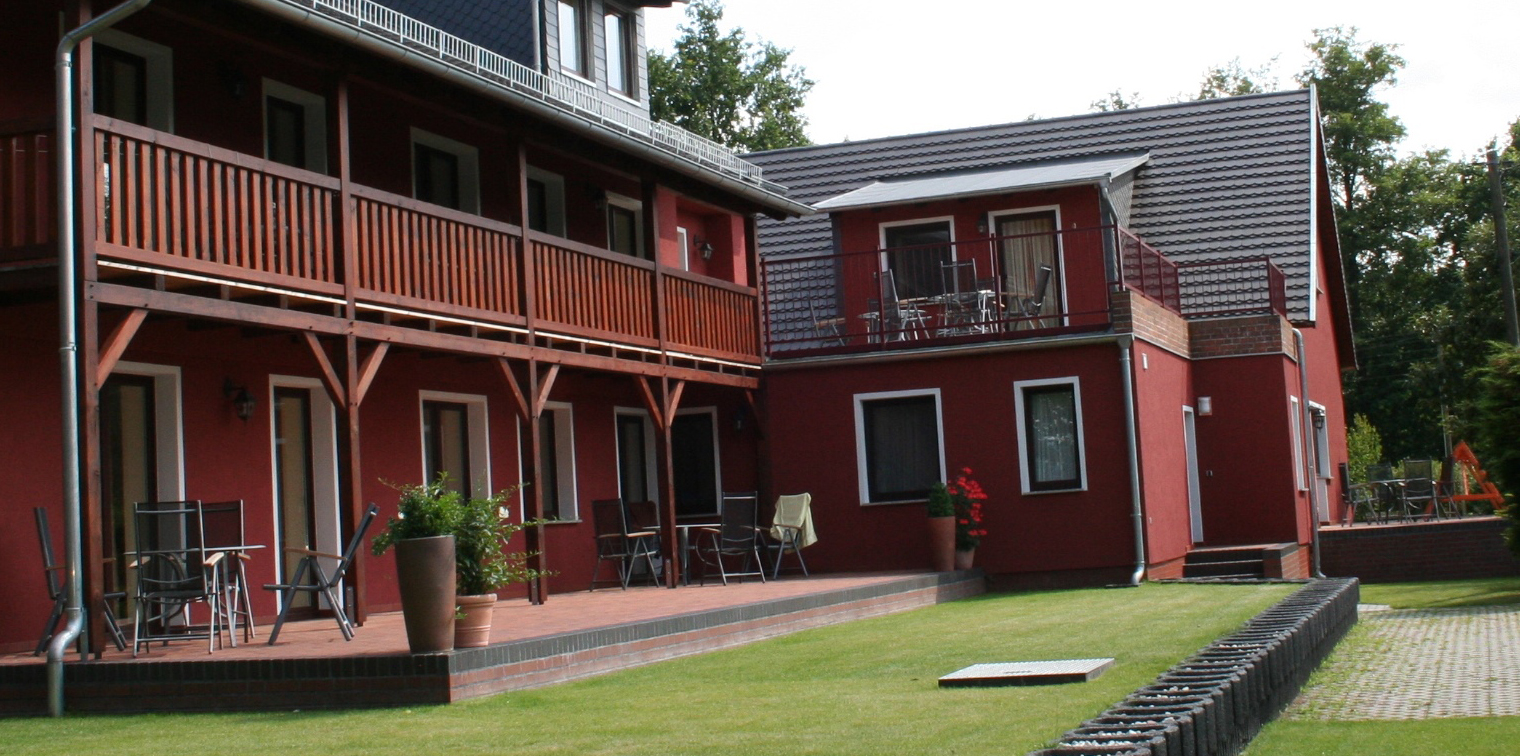
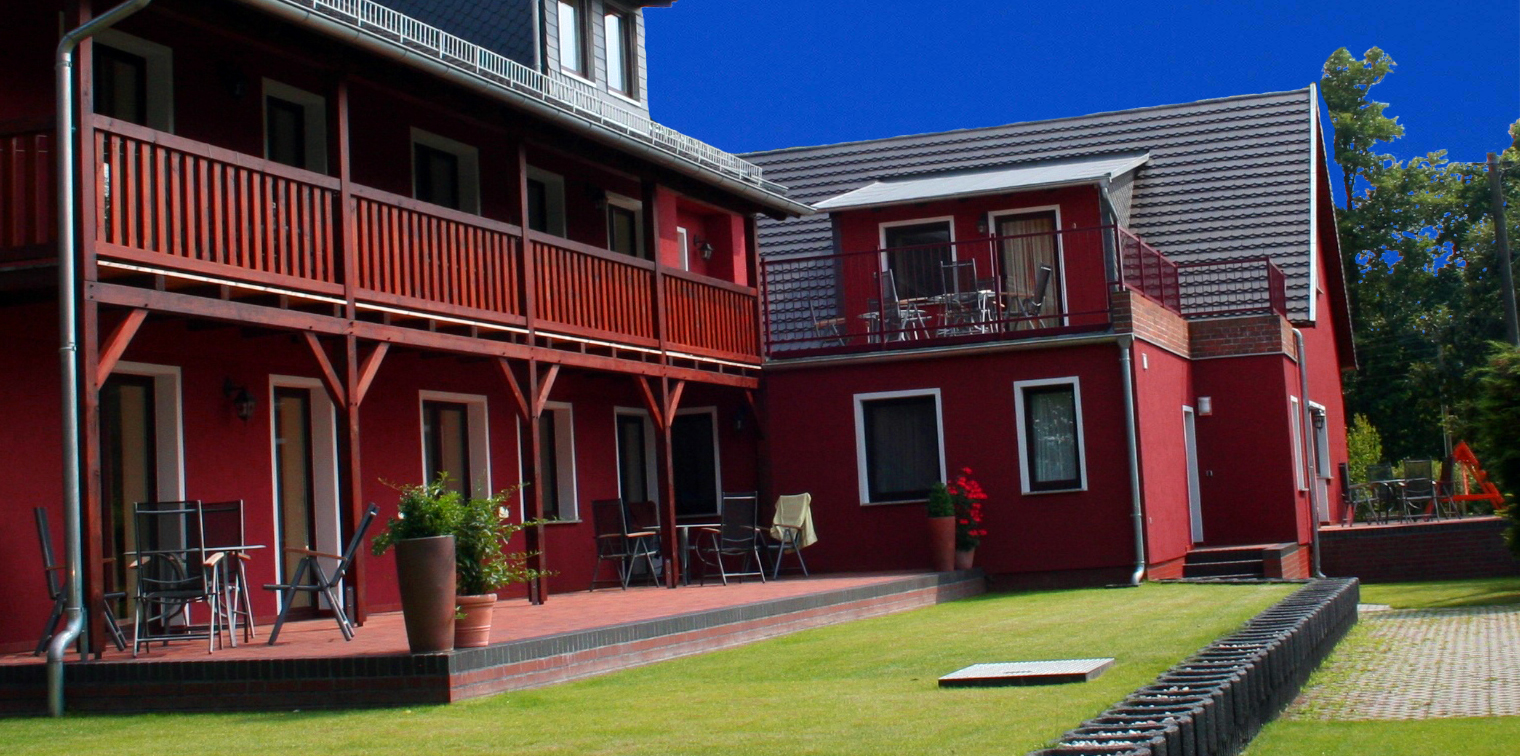
Footer repariert, Bilder aufgeschönt

Changed region(s): [[0.402, 0.0, 1.0, 0.2738], [0.8967, 0.2738, 0.9586, 0.3651], [0.9586, 0.6389, 0.9895, 0.6693]]

diff --git a/js/init.js b/js/init.js
@@ -14,45 +14,38 @@
 		var	$window = $(window),
 			$body = $('body'),
 			$header = $('#header'),
-			$all = $body.add($header),
 			sectionTransitionState = false;
-
-		
-
-			// Resize.
-				var resizeTimeout, resizeScrollTimeout;
-				
-				$window.resize(function() {
-
-					window.clearTimeout(resizeTimeout);
-
-					resizeTimeout = window.setTimeout(function() {
-
-						// Resize fullscreen elements.
+        
+        // Resize our element.
+        var resizeTimeout, resizeScrollTimeout;
+            
+            $window.resize(function() {
+                
+                window.clearTimeout(resizeTimeout);
+                
+                    resizeTimeout = window.setTimeout(function() {
+                        
+                        // Resize fullscreen elements.
 							if (settings.fullScreen) {
+                                
 								$('.fullscreen').each(function() {
 								
 									var $t = $(this),
-										$c = $t.children('main'),
-										x = Math.max(100, Math.round(($window.height()) / 2) - 90);
+										x = Math.max(100, Math.round(($window.height())) - 180);
 
-									$t
-										.css('padding-top', x)
-										.css('padding-bottom', x);
-								
+									$t.css('min-height', x);
 								});
 							}
 					}, 100);
 
-				});
+            });
 				
 		// Trigger resize
-			$window.load(function() {
-				
-				$window
-					.trigger('resize')
-			
-			});
+        $window.load(function() {
+            
+            $window
+                .trigger('resize')	
+        });
 
 	});
 	

diff --git a/contact.html b/contact.html
@@ -22,16 +22,18 @@
             <div class="yellowline"></div>
         </header>
         <main>
-            <section class="description">
-                <h1>Contact</h1>
-                <p> Rent Our Apartments
-                    Imaginary Ave 1337
-                    Tel.: 0212-105374
-                    Fax: 0212-105375
-                    Email: <a href="mailto:info@rentourapartments.com">info@rentourapartments.com</a>
-                    www.rentourapartments.com
-                </p>
-            </section>
+            <figure id="offers" class="shadowbottom fullscreen" style="background-image: url(images/envelope.png);">
+                <figcaption class="description">
+                    <h1>Contact</h1>
+                    <p> Rent Our Apartments
+                        Imaginary Ave 1337
+                        Tel.: 0212-105374
+                        Fax: 0212-105375
+                        Email: <a href="mailto:info@rentourapartments.com">info@rentourapartments.com</a>
+                        www.rentourapartments.com
+                    </p>
+                </figcaption>
+            </figure>
         </main>
         <footer>
             <nav>

diff --git a/offers.html b/offers.html
@@ -19,14 +19,12 @@
                     <li><a href="leisurer-activities.html">Leisurer Activities</a></li>
                 </ul>
             </nav>
-            <div class="yellowline"></div>
         </header>
         <main>
             <div>
-                <figure class="bigpicture white shadowbottom shadowtext fullscreen" style="background-image: url(images/winter.jpg);">
-                    <img src="images/snowflake.svg" alt="">
+                <figure id="offers" class="bigpicture shadowbottom fullscreen" style="background-image: url(images/winter.jpg);">
                     <figcaption>
-                        <!--<h><strong>Offers</strong></h>-->
+                        <img src="images/snowflake.svg" alt="blue snowflake">
                         <p class="subtitle">The cold weather may have truly set in, but don't worry - 
                             our Winter City Break offer is too hot to miss! 
                             Save up to 25% on our best available rates.</p>

diff --git a/style.css b/style.css
@@ -259,7 +259,7 @@ figure{
 
 .bigpicture p {
     font: 2.5em 'PT Serif';
-    margin: 0px 0 0 0;
+    margin: 20% 0 0 0;
     position: absolute;
     color: #fff;
     width: 100%;
@@ -268,7 +268,7 @@ figure{
 
 .bigpicture h {
     font: 2.5em 'PT Serif';
-    margin: -200px 0 0 -50px;
+    margin: 0x 0 0 50px;
     position: absolute;
     color: #fff;
     width: 6%;
@@ -281,7 +281,7 @@ figure{
     position: absolute; 
     width: 100%;
     color: #fff;
-    margin-top: 5%;
+    margin-top: 25%;
 }
 
 .bigpicture .subtitle {
@@ -291,13 +291,6 @@ figure{
     color: #fff;
     margin-top: -130px;
     white-space: pre-line;
-}
-
-
-.arrow-container {
-    max-width: 80%;
-    margin:auto;
-    text-align:left;
 }
 
 .pic-container {
@@ -338,6 +331,18 @@ figure{
     font: 20px/1.8em 'Domine';
     color: #807c7c; 
 }
+
+#offers img {
+    margin: 4% 0% 8% 0;
+    max-width: 13%;
+}
+
+#offers .subtitle {
+ color: darkblue;   
+}
+
+
+
 
 
 /* Media queries for responsive design

diff --git a/costs.html b/costs.html
@@ -25,7 +25,7 @@
             <section class="description">
                 <h2>Traffic, Availability and Reservations</h2>
 
-                <p>Our tariff, which includes all facilities, heating and lighting, bed linen and towels, bathrobes, slippers, Molton Brown toiletries, welcome provisions, flowers and complimentary bottle of wine (Champagne for special occasions) for two persons, is:
+                <p>Our tarif, which includes all facilities, heating and lighting, bed linen and towels, bathrobes, slippers, Molton Brown toiletries, welcome provisions, flowers and complimentary bottle of wine (Champagne for special occasions) for two persons, is:
                 </p>
 
                 <table border="0" style="width:300px">

diff --git a/imprint.html b/imprint.html
@@ -22,7 +22,7 @@
             <div class="yellowline"></div>
         </header>
         <main>
-            <section class="description">
+            <section class="description fullscreen">
                 <h2>Concept, Design and Development:</h2>
                 <p>
                     Matthias Nattke and Elisabeth Peinelt

diff --git a/index.html b/index.html
@@ -19,7 +19,6 @@
                     <li><a href="leisurer-activities.html">Leisurer Activities</a></li>
                 </ul>
             </nav>
-            <!--<div class="yellowline"></div>-->
         </header>
         <main>
             <div>
